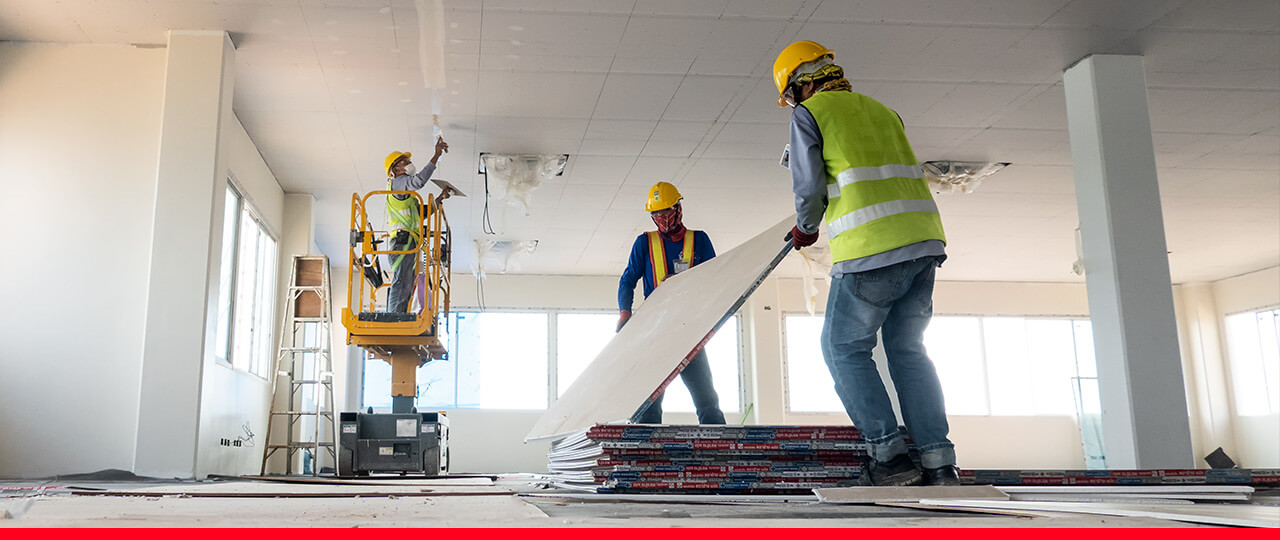
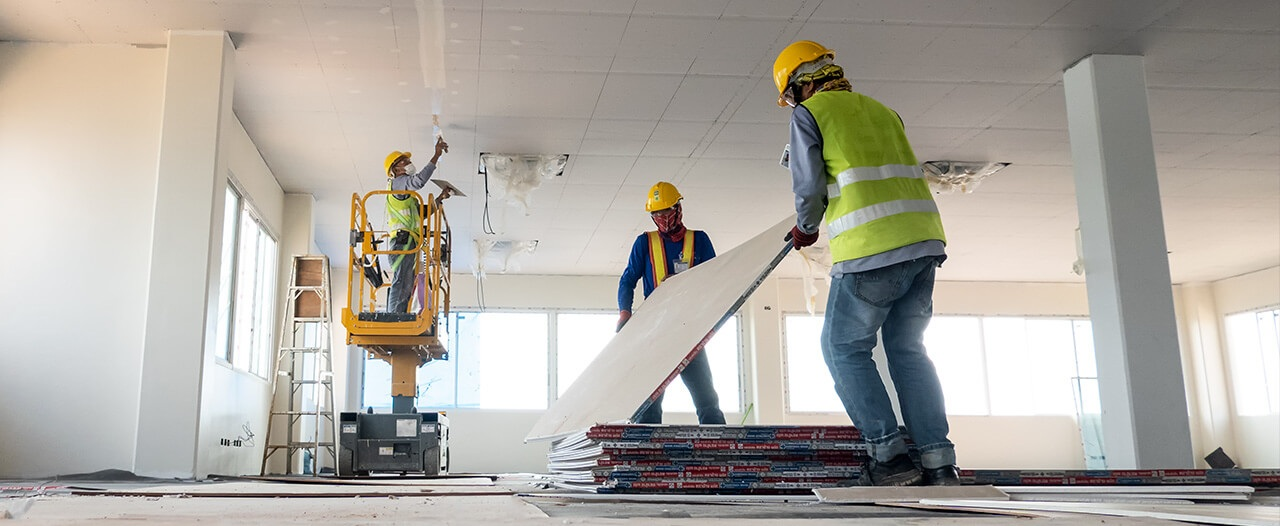
dale

diff --git a/components/services-section.tsx b/components/services-section.tsx
@@ -18,10 +18,10 @@ export default function ServicesSection() {
       description: "Construcción de vías de acceso vehiculares.",
     },
     {
-      title: "Estructuras Industriales",
+      title: "Fabricación y montaje de estructuras",
       category: "Estructuras Metálicas",
-      image: "/INDUSTRIAL.png",
-      description: "Fabricación e instalación de estructuras metálicas para naves industriales.",
+      image: "/5.jpg",
+      description: "Fabricación y montaje de estructuras para naves industriales.",
     },
     {
       title: "Construcción y montaje de naves industriales",
@@ -155,6 +155,9 @@ export default function ServicesSection() {
                               e.currentTarget.src = '/placeholder.svg';
                             }}
                           />
+                          <div className="absolute top-3 left-3 bg-primary px-3 py-1.5 rounded-md shadow-lg">
+                            <span className="text-white text-xs sm:text-sm font-medium">{project.category}</span>
+                          </div>
                         </div>
                         <CardContent className="p-4 sm:p-6 flex-1 flex flex-col">
                           <h3 className="text-lg sm:text-xl font-medium text-foreground mb-2 group-hover:text-primary transition-colors line-clamp-2">

diff --git a/app/proyectos/obras-civiles/page.tsx b/app/proyectos/obras-civiles/page.tsx
@@ -35,11 +35,11 @@ export default function ObrasCivilesPage() {
   const projects = [
     {
       title: "Excavaciones y movimiento de tierras",
-      image: "/movi.jpeg",
+      image: "/tierras.jpg",
     },
     {
       title: "Habilitación y mantenimiento de vías de acceso",
-      image: "/calle2.jpeg",
+      image: "/carretera-asfaltado.jpg",
     },
     {
       title: "Construcción de vías de acceso",
@@ -59,7 +59,7 @@ export default function ObrasCivilesPage() {
     },
     {
       title: "Alcantarillado y saneamiento",
-      image: "/losa.jpeg",
+      image: "/agua.jpg",
     },
     {
       title: "Construcción de reservorios y mini represas",

diff --git a/app/proyectos/page.tsx b/app/proyectos/page.tsx
@@ -103,7 +103,7 @@ export default function ProyectosPage() {
             <h1 className="text-5xl md:text-6xl font-bold text-white mb-6">
               Nuestros Servicios
             </h1>
-            <p className="text-xl md:text-2xl text-white/90 max-w-3xl mx-auto">
+            <p className="text-lg md:text-xl lg:text-2xl text-white/90 max-w-6xl mx-auto px-4">
               Obras civiles - Estructuras metálicas y metalmecánica – Misceláneos
             </p>
           </div>
